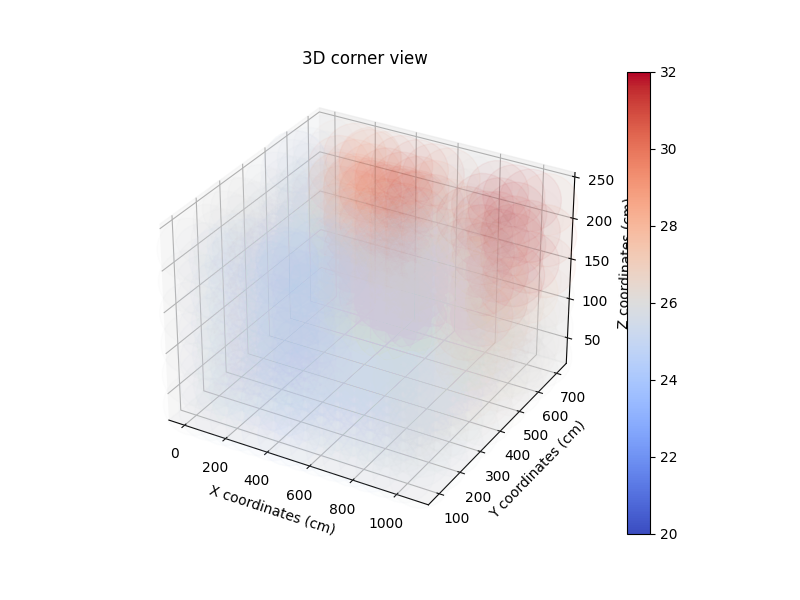
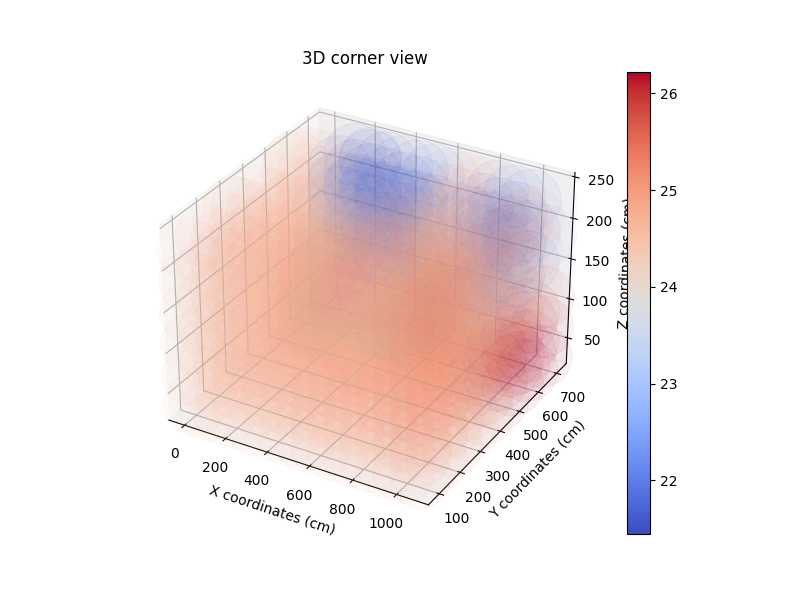
update heatmap time + threshold

diff --git a/templates/heatmap.html b/templates/heatmap.html
@@ -7,81 +7,92 @@
 {% block section1title %}<h2>Realtime Heat Maps of room L405 </h2>{% endblock %}
 
 {% block section1content %}
-<form method="POST" action="{{ url_for('heatmap') }}">
+<form method="POST" action="{{ url_for('heatmap') }}" style="width: 100%;">
+    <div style="display:flex;width: 100%;">
 
-    <div style="position: absolute;right: 100px;">
-        <span style="font-size: larger;font-weight: bold;">Date for heatmap :</span>
         <div>
-
-            <input type="datetime-local" name="time" value={{time_chose}} min="2022-01-01T00:00">
-            <button type="submit">REFRESH</button>
-        </div>
-    </div>
-    <div style="position: absolute;right: 100px; margin-top: 60px;">
-        <span style="font-size: larger;font-weight: bold;">Thresholds :</span>
-        <div>
-            <input type="checkbox" name="cb_automatic_threshold" id="cb_automatic_threshold" {% if automatic %} checked
-                {% endif %}>
-            <label>Automatic</label>
-        </div>
-        <div class="temp_threshold" style="margin-left: 10px;">
+            <span style="font-size: larger;font-weight: bold;">Date for heatmap :</span>
             <div>
-                <label>Max Temp (red)</label>
 
-                <input type="number" id="max_temp_threshold" name="max_temp_threshold" min="10" max="50"
-                    value="{{max_threshold}}" class="temp_threshold" disabled>
-            </div>
-            <div>
-                <label>Min Temp (blue)</label>
-
-                <input type="number" id="min_temp_threshold" name="min_temp_threshold" min="10" max="50"
-                    value="{{min_threshold}}" class="temp_threshold" disabled>
+                <input type="datetime-local" name="time" value={{time_chose}} min="2022-01-01T00:00">
             </div>
         </div>
+        <div style="margin-left: 30px;">
+            <span style="font-size: larger;font-weight: bold;">Thresholds :</span>
+            <div>
+                <input type="checkbox" name="cb_automatic_threshold" id="cb_automatic_threshold_id" {% if automatic == False %}
+                    checked {% endif %}>
+                <label>Manual</label>
+            </div>
+            <div class="temp_threshold" style="margin-left: 10px;">
+                <div>
+                    <label>Max Temp (red)</label>
+
+                    <input type="number" id="max_temp_threshold" name="max_temp_threshold" min="10" max="50"
+                        value="{{max_threshold}}" class="temp_threshold">
+                </div>
+                <div>
+                    <label>Min Temp (blue)</label>
+
+                    <input type="number" id="min_temp_threshold" name="min_temp_threshold" min="10" max="50"
+                        value="{{min_threshold}}" class="temp_threshold">
+                </div>
+            </div>
+        </div>
+        
+        <button type="submit" style="right: 100px; position: absolute;background-color: #4CAF50; /* Green */
+        border: none;
+        color: white;
+        padding: 15px 32px;
+        text-align: center;
+        text-decoration: none;
+        display: inline-block;
+        cursor: pointer;
+        font-size: 16px;">REFRESH</button>
     </div>
 
 </form>
-<div>
-    <div clas="container-fluid">
-        <div class="row" style="width:%100;height:600px">
-            <div class="col-xl-6 col-md-4" style="width:%100;height:480px;">
-                <img src="../static/assets/img/3dHeatmap.png" width="800" height="600" frameborder="0"
-                    style="display:block;margin-left:auto;margin-right:auto;width:%100"></img>
+<div clas="container-fluid">
+    <div class="row" style="width:%100;height:600px">
+        <div class="col-xl-6 col-md-4" style="width:%100;height:480px;">
+            <img src="../static/assets/img/3dHeatmap.png" width="800" height="600" frameborder="0"
+                style="display:block;margin-left:auto;margin-right:auto;width:%100"></img>
+        </div>
+        <div class="col-xl-6 col-md-4" style="width:%100;height:480px;float:right;">
+            <img src="../static/assets/img/2dHeatmap.png" width="800" height="600" frameborder="0"
+                style="display:block;margin-left:auto;margin-right:auto;width:%100"></img>
+        </div>
+    </div>
+
+
+    <div class="row" style="width:%100;height:200px">
+        <div style="padding:4rem 0rem 4rem 2rem; font-size:2rem;font-weight:bold">
+            <div class="row" style="height:50px">
+                <span style="display: inline;">Lowest temperature measured : <span
+                        style="color:blue">{{t_min}}</span></span>
             </div>
-            <div class="col-xl-6 col-md-4" style="width:%100;height:480px;float:right;">
-                <img src="../static/assets/img/2dHeatmap.png" width="800" height="600" frameborder="0"
-                    style="display:block;margin-left:auto;margin-right:auto;width:%100"></img>
+            <div class="row" style="height:50px">
+                <span style="display: inline;">Highest temperature measured : <span
+                        style="color:red">{{t_max}}</span></span>
+            </div>
+            <div class="row" style="height:50px">
+                <span style="display: inline;">Temperature gap : <span style="color:green">{{gap}}</span></span>
             </div>
         </div>
-
-
-        <div class="row" style="width:%100;height:200px">
-            <div style="padding:4rem 0rem 4rem 2rem; font-size:2rem;font-weight:bold">
-                <div class="row" style="height:50px">
-                    <span style="display: inline;">Lowest temperature measured : <span
-                            style="color:blue">{{t_min}}</span></span>
-                </div>
-                <div class="row" style="height:50px">
-                    <span style="display: inline;">Highest temperature measured : <span
-                            style="color:red">{{t_max}}</span></span>
-                </div>
-                <div class="row" style="height:50px">
-                    <span style="display: inline;">Temperature gap : <span style="color:green">{{gap}}</span></span>
-                </div>
-            </div>
-        </div>
+    </div>
+</div>
 
 
 
-        <script type="text/javascript">
-            $('.temp_threshold').attr('disabled', $('#cb_automatic_threshold').is(':checked'));
-            $('#cb_automatic_threshold').change(function () {
-                $('.temp_threshold').attr('disabled', $(this).is(':checked'));
-            });
-        </script>
+<script type="text/javascript">
+    $('.temp_threshold').attr('disabled', !$('#cb_automatic_threshold_id').is(':checked'));
+    $('#cb_automatic_threshold_id').change(function () {
+        $('.temp_threshold').attr('disabled', !$(this).is(':checked'));
+    });
+</script>
 
-        {% endblock %}
+{% endblock %}
 
-        {% block js %}
+{% block js %}
 
-        {% endblock %}
+{% endblock %}

diff --git a/templates/grafana_import.html b/templates/grafana_import.html
@@ -16,10 +16,18 @@
         <option value="{{time}}" name="{{time}}" {% if time==default_select %} selected {% endif %}>{{time}}</option>"
         {% endfor %}
     </select>
-    <button type="submit">REFRESH</button>
+    <button type="submit" style="background-color: #4CAF50; /* Green */
+        border: none;
+        color: white;
+        padding: 15px 32px;
+        text-align: center;
+        text-decoration: none;
+        display: inline-block;
+        cursor: pointer;
+        font-size: 16px;">REFRESH</button>
 
 </form>
-<div>
+<div style="margin-top: 20px;">
     <span>
         Temperatures in relation with the sun hitting on the windows.
     </span>

diff --git a/flaskApp.py b/flaskApp.py
@@ -44,8 +44,7 @@ def index():
 
 @app.route('/heatmap', methods=['GET', 'POST'])
 def heatmap():
-    automatic_threshold = True if request.form.get("cb_automatic_threshold") else False
-    
+    automatic_threshold = False if request.form.get("cb_automatic_threshold") else True
     min_threshold = -1 if automatic_threshold else request.form.get("min_temp_threshold", type=int)
     max_threshold = -1 if automatic_threshold else request.form.get("max_temp_threshold", type=int)
     min_threshold, max_threshold = min(min_threshold, max_threshold), max(min_threshold, max_threshold)

diff --git a/heatmap_creation.py b/heatmap_creation.py
@@ -154,8 +154,6 @@ def heatmap_3D(df):
 
 
 def get_heatmap(date = datetime.now(), threshold_min = -1, threshold_max = -1):
-    print("max :", threshold_max)
-    print("min :", threshold_min)
     global df_heatmap, df_sensors, min_x, min_y, min_z, max_x, max_y, max_z, min_threshold, max_threshold
     df_heatmap = pd.DataFrame()
     df_sensors=dataframe_creation()
